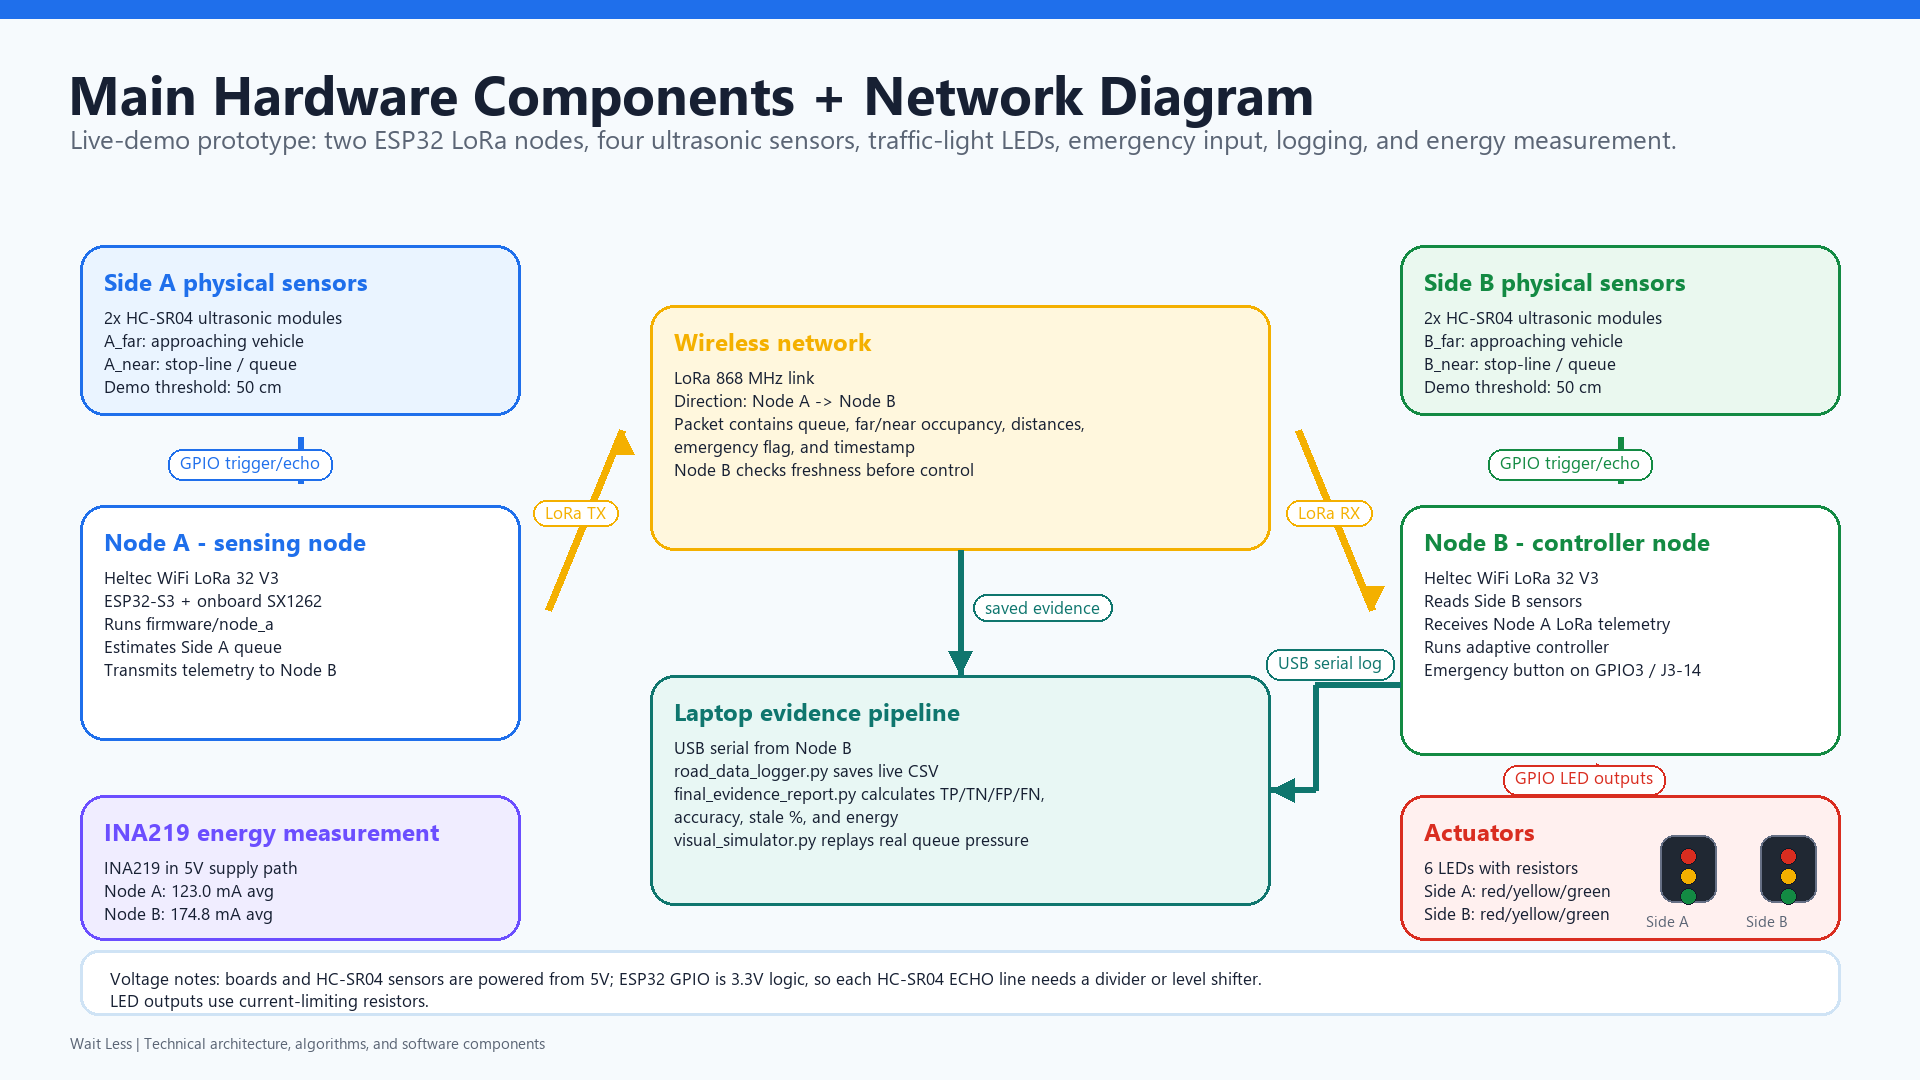
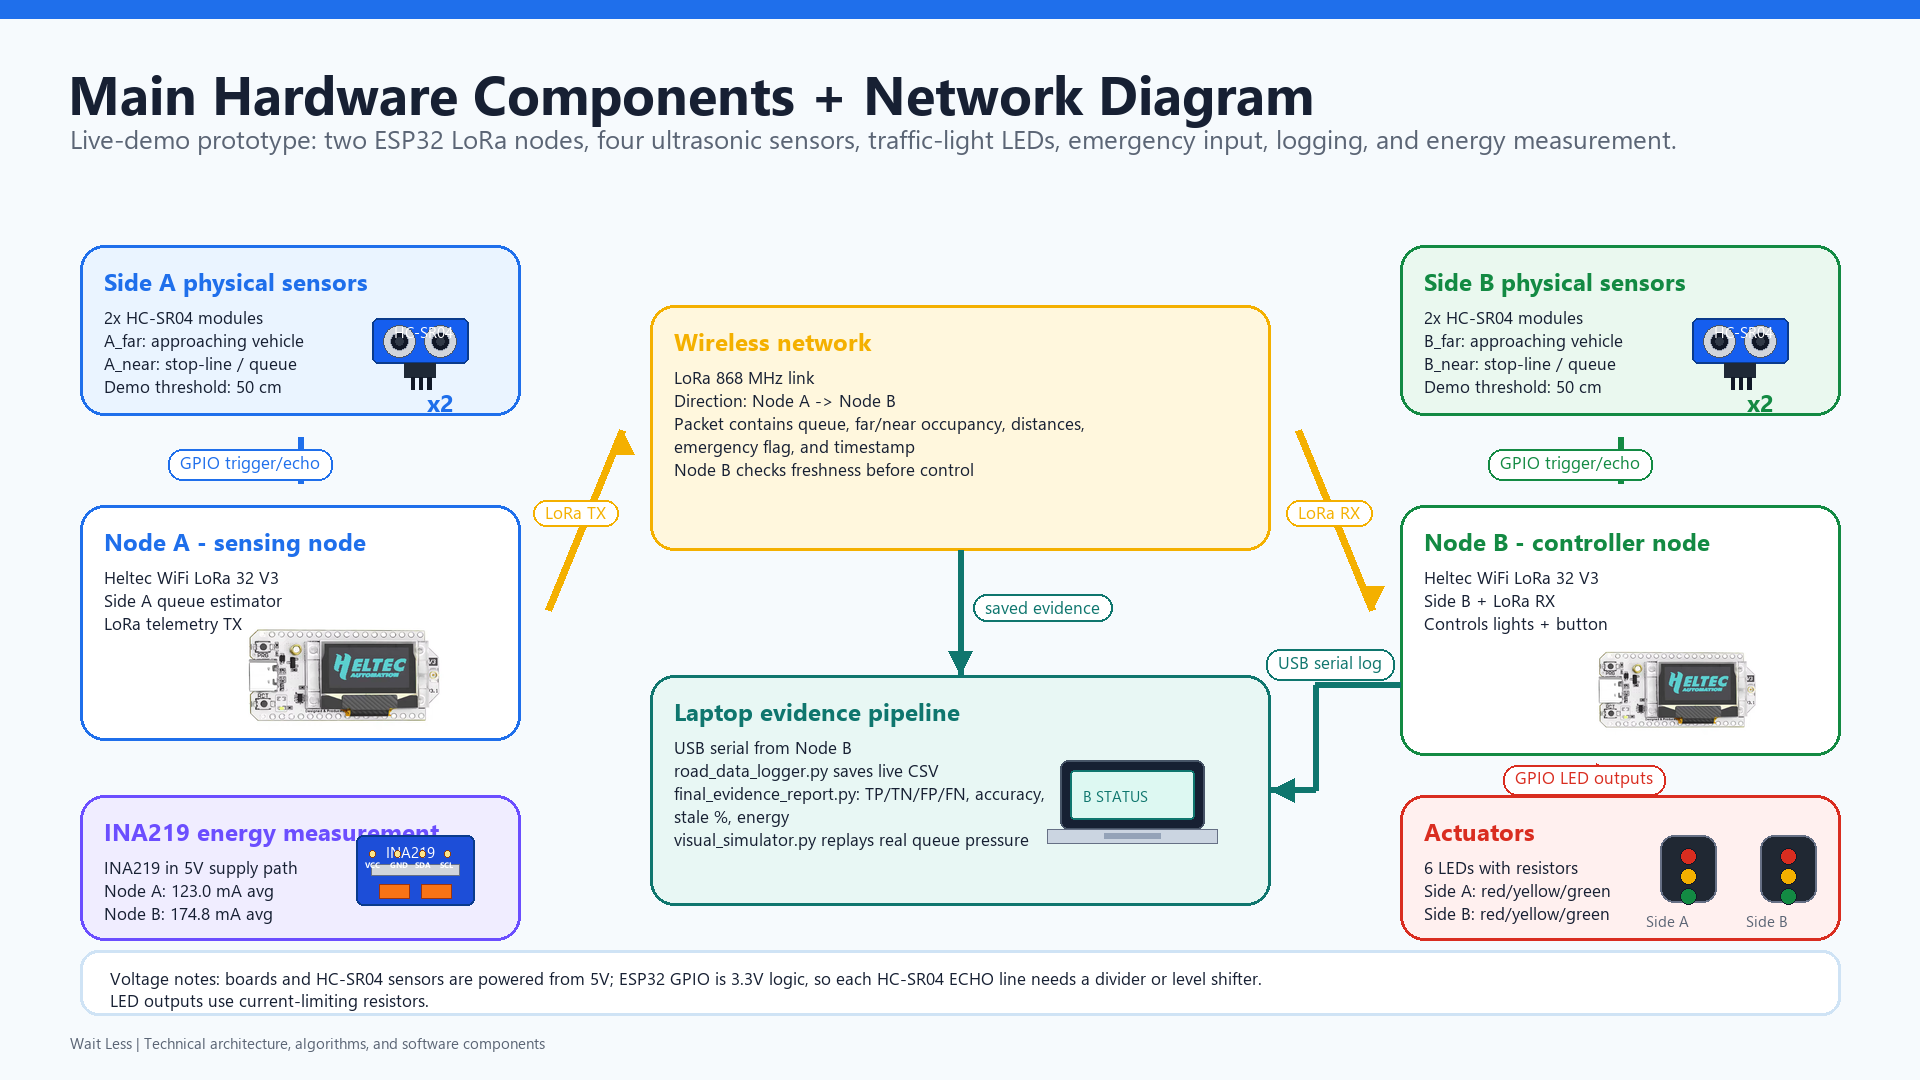
Add component visuals to hardware network diagram

diff --git a/tools/render_technical_section_pictures.py b/tools/render_technical_section_pictures.py
@@ -52,6 +52,7 @@ SMALL = font(17)
 TINY = font(15)
 MONO = font(18)
 MONO_BOLD = font(18, True)
+ESP_IMAGE = ROOT / "docs" / "esp.png"
 
 
 def new_canvas(title: str, subtitle: str) -> tuple[Image.Image, ImageDraw.ImageDraw]:
@@ -128,6 +129,58 @@ def label(draw: ImageDraw.ImageDraw, x: int, y: int, text: str, color: str) -> N
     bbox = draw.textbbox((x, y), text, font=SMALL)
     rounded(draw, (bbox[0] - 12, bbox[1] - 7, bbox[2] + 12, bbox[3] + 7), SURFACE, color, 2, 14)
     draw.text((x, y), text, fill=color, font=SMALL)
+
+
+def paste_fit(base: Image.Image, image_path: Path, box: tuple[int, int, int, int]) -> None:
+    if not image_path.exists():
+        return
+    src = Image.open(image_path).convert("RGBA")
+    target_w = box[2] - box[0]
+    target_h = box[3] - box[1]
+    src.thumbnail((target_w, target_h), Image.Resampling.LANCZOS)
+    x = box[0] + (target_w - src.width) // 2
+    y = box[1] + (target_h - src.height) // 2
+    base.paste(src, (x, y), src)
+
+
+def draw_ultrasonic_module(draw: ImageDraw.ImageDraw, x: int, y: int, scale: float = 1.0) -> None:
+    w = int(118 * scale)
+    h = int(56 * scale)
+    rounded(draw, (x, y, x + w, y + h), "#155EEF", "#0B3B8C", 2, int(8 * scale))
+    draw.rectangle((x + int(40 * scale), y + h, x + int(78 * scale), y + h + int(18 * scale)), fill="#1F2937")
+    for pin_x in [48, 58, 68]:
+        draw.rectangle((x + int(pin_x * scale), y + h + int(18 * scale), x + int((pin_x + 4) * scale), y + h + int(32 * scale)), fill="#111827")
+    for cx in [34, 84]:
+        cx_s = x + int(cx * scale)
+        cy_s = y + int(29 * scale)
+        draw.ellipse((cx_s - int(20 * scale), cy_s - int(20 * scale), cx_s + int(20 * scale), cy_s + int(20 * scale)), fill="#D1D5DB", outline="#475467", width=max(1, int(2 * scale)))
+        draw.ellipse((cx_s - int(12 * scale), cy_s - int(12 * scale), cx_s + int(12 * scale), cy_s + int(12 * scale)), fill="#111827", outline="#98A2B3", width=max(1, int(2 * scale)))
+        draw.ellipse((cx_s - int(6 * scale), cy_s - int(6 * scale), cx_s + int(6 * scale), cy_s + int(6 * scale)), fill="#2F3846")
+    draw.text((x + int(28 * scale), y + int(4 * scale)), "HC-SR04", fill="#FFFFFF", font=TINY)
+
+
+def draw_ina219_module(draw: ImageDraw.ImageDraw, x: int, y: int, scale: float = 1.0) -> None:
+    w = int(138 * scale)
+    h = int(82 * scale)
+    rounded(draw, (x, y, x + w, y + h), "#1D4ED8", "#0B3B8C", 2, int(9 * scale))
+    draw.text((x + int(36 * scale), y + int(8 * scale)), "INA219", fill="#FFFFFF", font=TINY)
+    draw.rectangle((x + int(18 * scale), y + int(34 * scale), x + int(120 * scale), y + int(47 * scale)), fill="#D1D5DB", outline="#667085")
+    draw.rectangle((x + int(27 * scale), y + int(57 * scale), x + int(62 * scale), y + int(74 * scale)), fill="#F97316", outline="#9A3412")
+    draw.rectangle((x + int(76 * scale), y + int(57 * scale), x + int(111 * scale), y + int(74 * scale)), fill="#F97316", outline="#9A3412")
+    for idx, label_text in enumerate(["VCC", "GND", "SDA", "SCL"]):
+        px = x + int((16 + idx * 29) * scale)
+        draw.ellipse((px, y + int(18 * scale), px + int(8 * scale), y + int(26 * scale)), fill="#FDE68A", outline="#92400E")
+        draw.text((px - int(5 * scale), y + int(28 * scale)), label_text, fill="#FFFFFF", font=font(max(8, int(9 * scale)), True))
+
+
+def draw_laptop_icon(draw: ImageDraw.ImageDraw, x: int, y: int, scale: float = 1.0) -> None:
+    w = int(170 * scale)
+    h = int(110 * scale)
+    rounded(draw, (x, y, x + w, y + int(82 * scale)), "#172033", "#475467", 2, int(10 * scale))
+    rounded(draw, (x + int(12 * scale), y + int(12 * scale), x + w - int(12 * scale), y + int(70 * scale)), "#DDF8F2", TEAL, 2, int(5 * scale))
+    draw.text((x + int(28 * scale), y + int(30 * scale)), "B STATUS", fill=TEAL, font=TINY)
+    draw.rectangle((x - int(16 * scale), y + int(82 * scale), x + w + int(16 * scale), y + int(98 * scale)), fill="#CBD5E1", outline="#667085")
+    draw.rectangle((x + int(52 * scale), y + int(86 * scale), x + int(118 * scale), y + int(92 * scale)), fill="#94A3B8")
 
 
 def save(image: Image.Image, name: str) -> Path:
@@ -350,10 +403,10 @@ def render_hardware_network() -> None:
         440,
         170,
         "Side A physical sensors",
-        "2x HC-SR04 ultrasonic modules\nA_far: approaching vehicle\nA_near: stop-line / queue\nDemo threshold: 50 cm",
+        "2x HC-SR04 modules\nA_far: approaching vehicle\nA_near: stop-line / queue\nDemo threshold: 50 cm",
         BLUE,
         WASH_BLUE,
-        36,
+        30,
     )
     node_a = card(
         draw,
@@ -362,10 +415,10 @@ def render_hardware_network() -> None:
         440,
         235,
         "Node A - sensing node",
-        "Heltec WiFi LoRa 32 V3\nESP32-S3 + onboard SX1262\nRuns firmware/node_a\nEstimates Side A queue\nTransmits telemetry to Node B",
+        "Heltec WiFi LoRa 32 V3\nSide A queue estimator\nLoRa telemetry TX",
         BLUE,
         SURFACE,
-        36,
+        28,
     )
 
     lora = card(
@@ -388,10 +441,10 @@ def render_hardware_network() -> None:
         620,
         230,
         "Laptop evidence pipeline",
-        "USB serial from Node B\nroad_data_logger.py saves live CSV\nfinal_evidence_report.py calculates TP/TN/FP/FN, accuracy, stale %, and energy\nvisual_simulator.py replays real queue pressure",
+        "USB serial from Node B\nroad_data_logger.py saves live CSV\nfinal_evidence_report.py: TP/TN/FP/FN, accuracy, stale %, energy\nvisual_simulator.py replays real queue pressure",
         TEAL,
         WASH_TEAL,
-        56,
+        48,
     )
 
     sensor_b = card(
@@ -401,10 +454,10 @@ def render_hardware_network() -> None:
         440,
         170,
         "Side B physical sensors",
-        "2x HC-SR04 ultrasonic modules\nB_far: approaching vehicle\nB_near: stop-line / queue\nDemo threshold: 50 cm",
+        "2x HC-SR04 modules\nB_far: approaching vehicle\nB_near: stop-line / queue\nDemo threshold: 50 cm",
         GREEN,
         WASH_GREEN,
-        36,
+        30,
     )
     node_b = card(
         draw,
@@ -413,10 +466,10 @@ def render_hardware_network() -> None:
         440,
         250,
         "Node B - controller node",
-        "Heltec WiFi LoRa 32 V3\nReads Side B sensors\nReceives Node A LoRa telemetry\nRuns adaptive controller\nEmergency button on GPIO3 / J3-14",
+        "Heltec WiFi LoRa 32 V3\nSide B + LoRa RX\nControls lights + button",
         GREEN,
         SURFACE,
-        36,
+        28,
     )
     actuators = card(
         draw,
@@ -443,6 +496,16 @@ def render_hardware_network() -> None:
         WASH_PURPLE,
         38,
     )
+
+    # Component pictures inside the diagram cards.
+    draw_ultrasonic_module(draw, 372, 318, 0.82)
+    draw.text((427, 386), "x2", fill=BLUE, font=H2)
+    paste_fit(image, ESP_IMAGE, (190, 615, 500, 730))
+    draw_ultrasonic_module(draw, 1692, 318, 0.82)
+    draw.text((1747, 386), "x2", fill=GREEN, font=H2)
+    paste_fit(image, ESP_IMAGE, (1540, 640, 1815, 735))
+    draw_laptop_icon(draw, 1060, 760, 0.85)
+    draw_ina219_module(draw, 356, 835, 0.86)
 
     # Hardware signal arrows.
     arrow(draw, ((sensor_a[0] + sensor_a[2]) // 2, sensor_a[3] + 22), ((node_a[0] + node_a[2]) // 2, node_a[1] - 22), BLUE, 6)